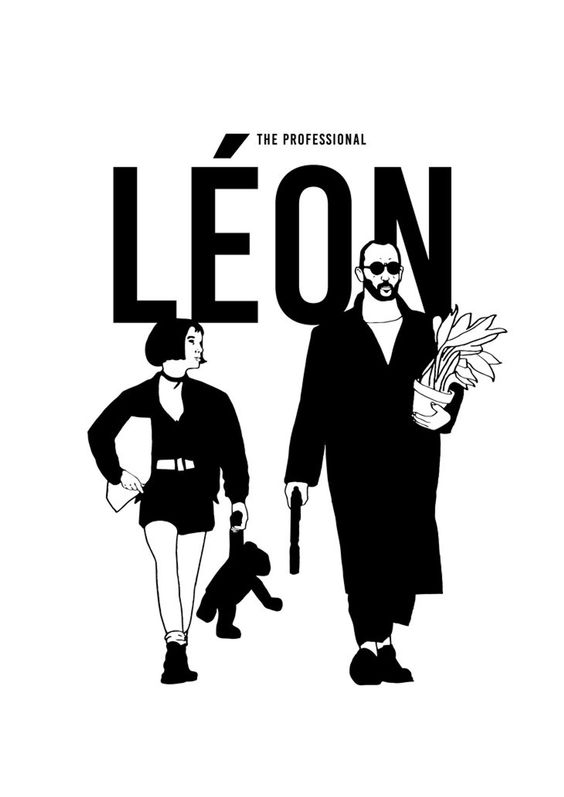
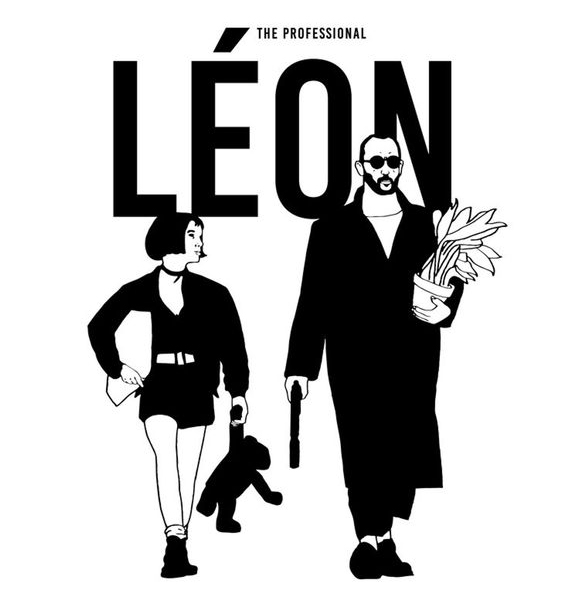
fixing CSS

diff --git a/artology/src/components/RandomItem/RandomItem.css b/artology/src/components/RandomItem/RandomItem.css
@@ -22,12 +22,16 @@
   margin: 0 auto;
   padding: 0 0 50px 0;
   background-color: var(--white);
+  position: relative;
+  height: 500px;
+  overflow: hidden;
 }
 
-img {
-  width: 80%;
-  height: 80%;
-  object-fit: contain;
+.random-item-section img {
+  display: block;
+  width: 100%;
+  height: 100%;
+  object-fit: cover;
 }
 
 button {

diff --git a/artology/src/App.js b/artology/src/App.js
@@ -102,7 +102,7 @@ function App() {
         <section
           id="artist-studio"
           aria-label="artist-studio"
-          className="item-container"
+          className="artist-studio"
         >
         <div className="question-container">
           <RandomQuestion
